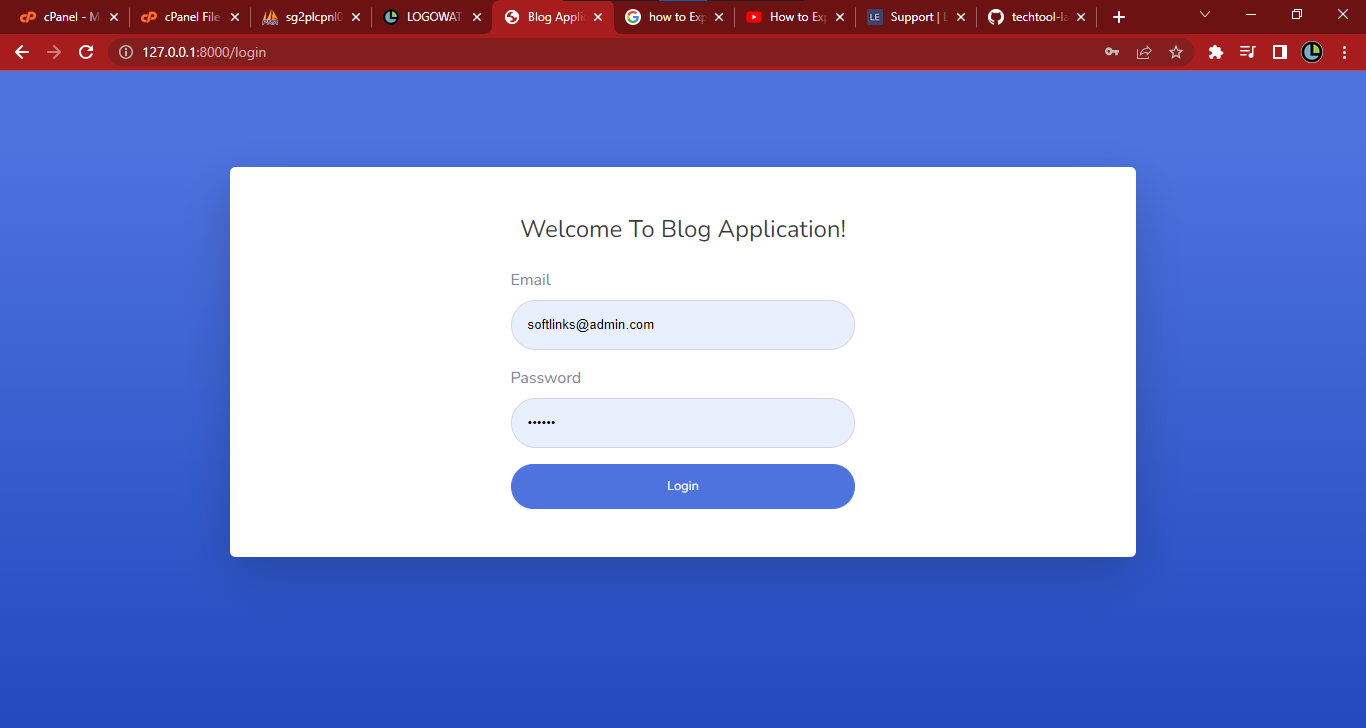
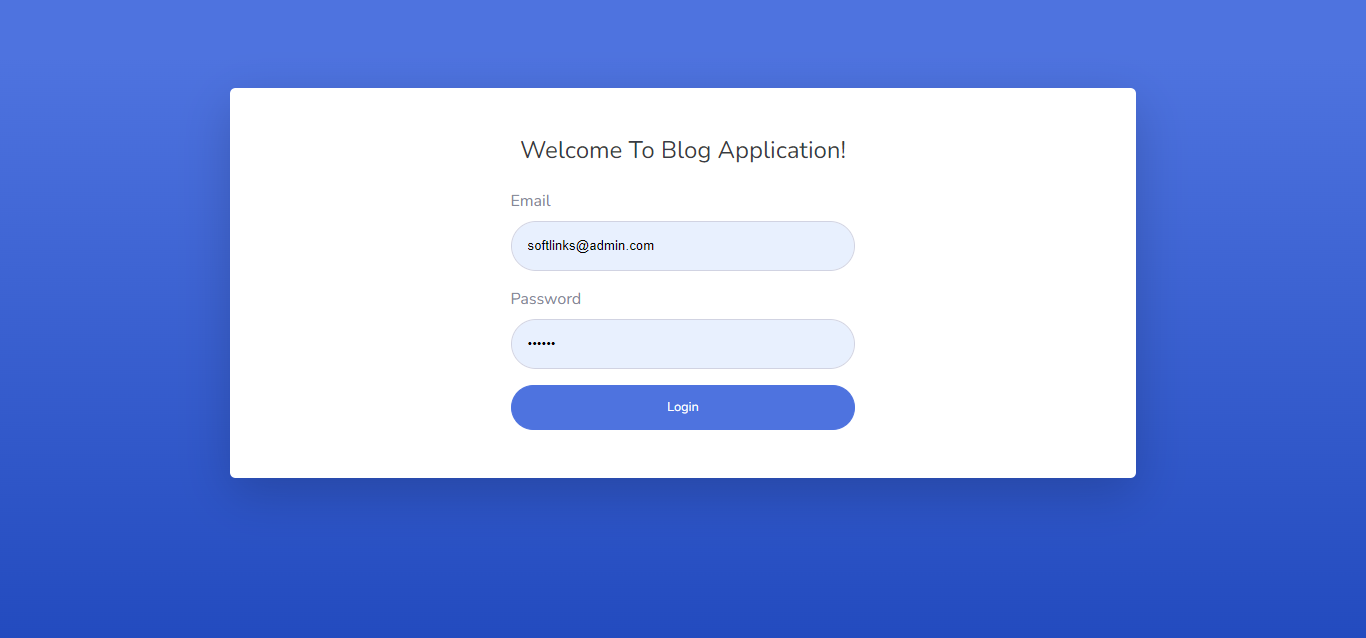
files updated

diff --git a/README.md b/README.md
@@ -58,7 +58,5 @@ Password - 123456
 ```
 ## Screenshots
 
-![App Screenshot](https://dev-to-uploads.s3.amazonaws.com/uploads/articles/53d53unbwjsvz2t0npan.png)
 
-
-![Alt text](image.png)
+![App Screenshot](image-1.png)
